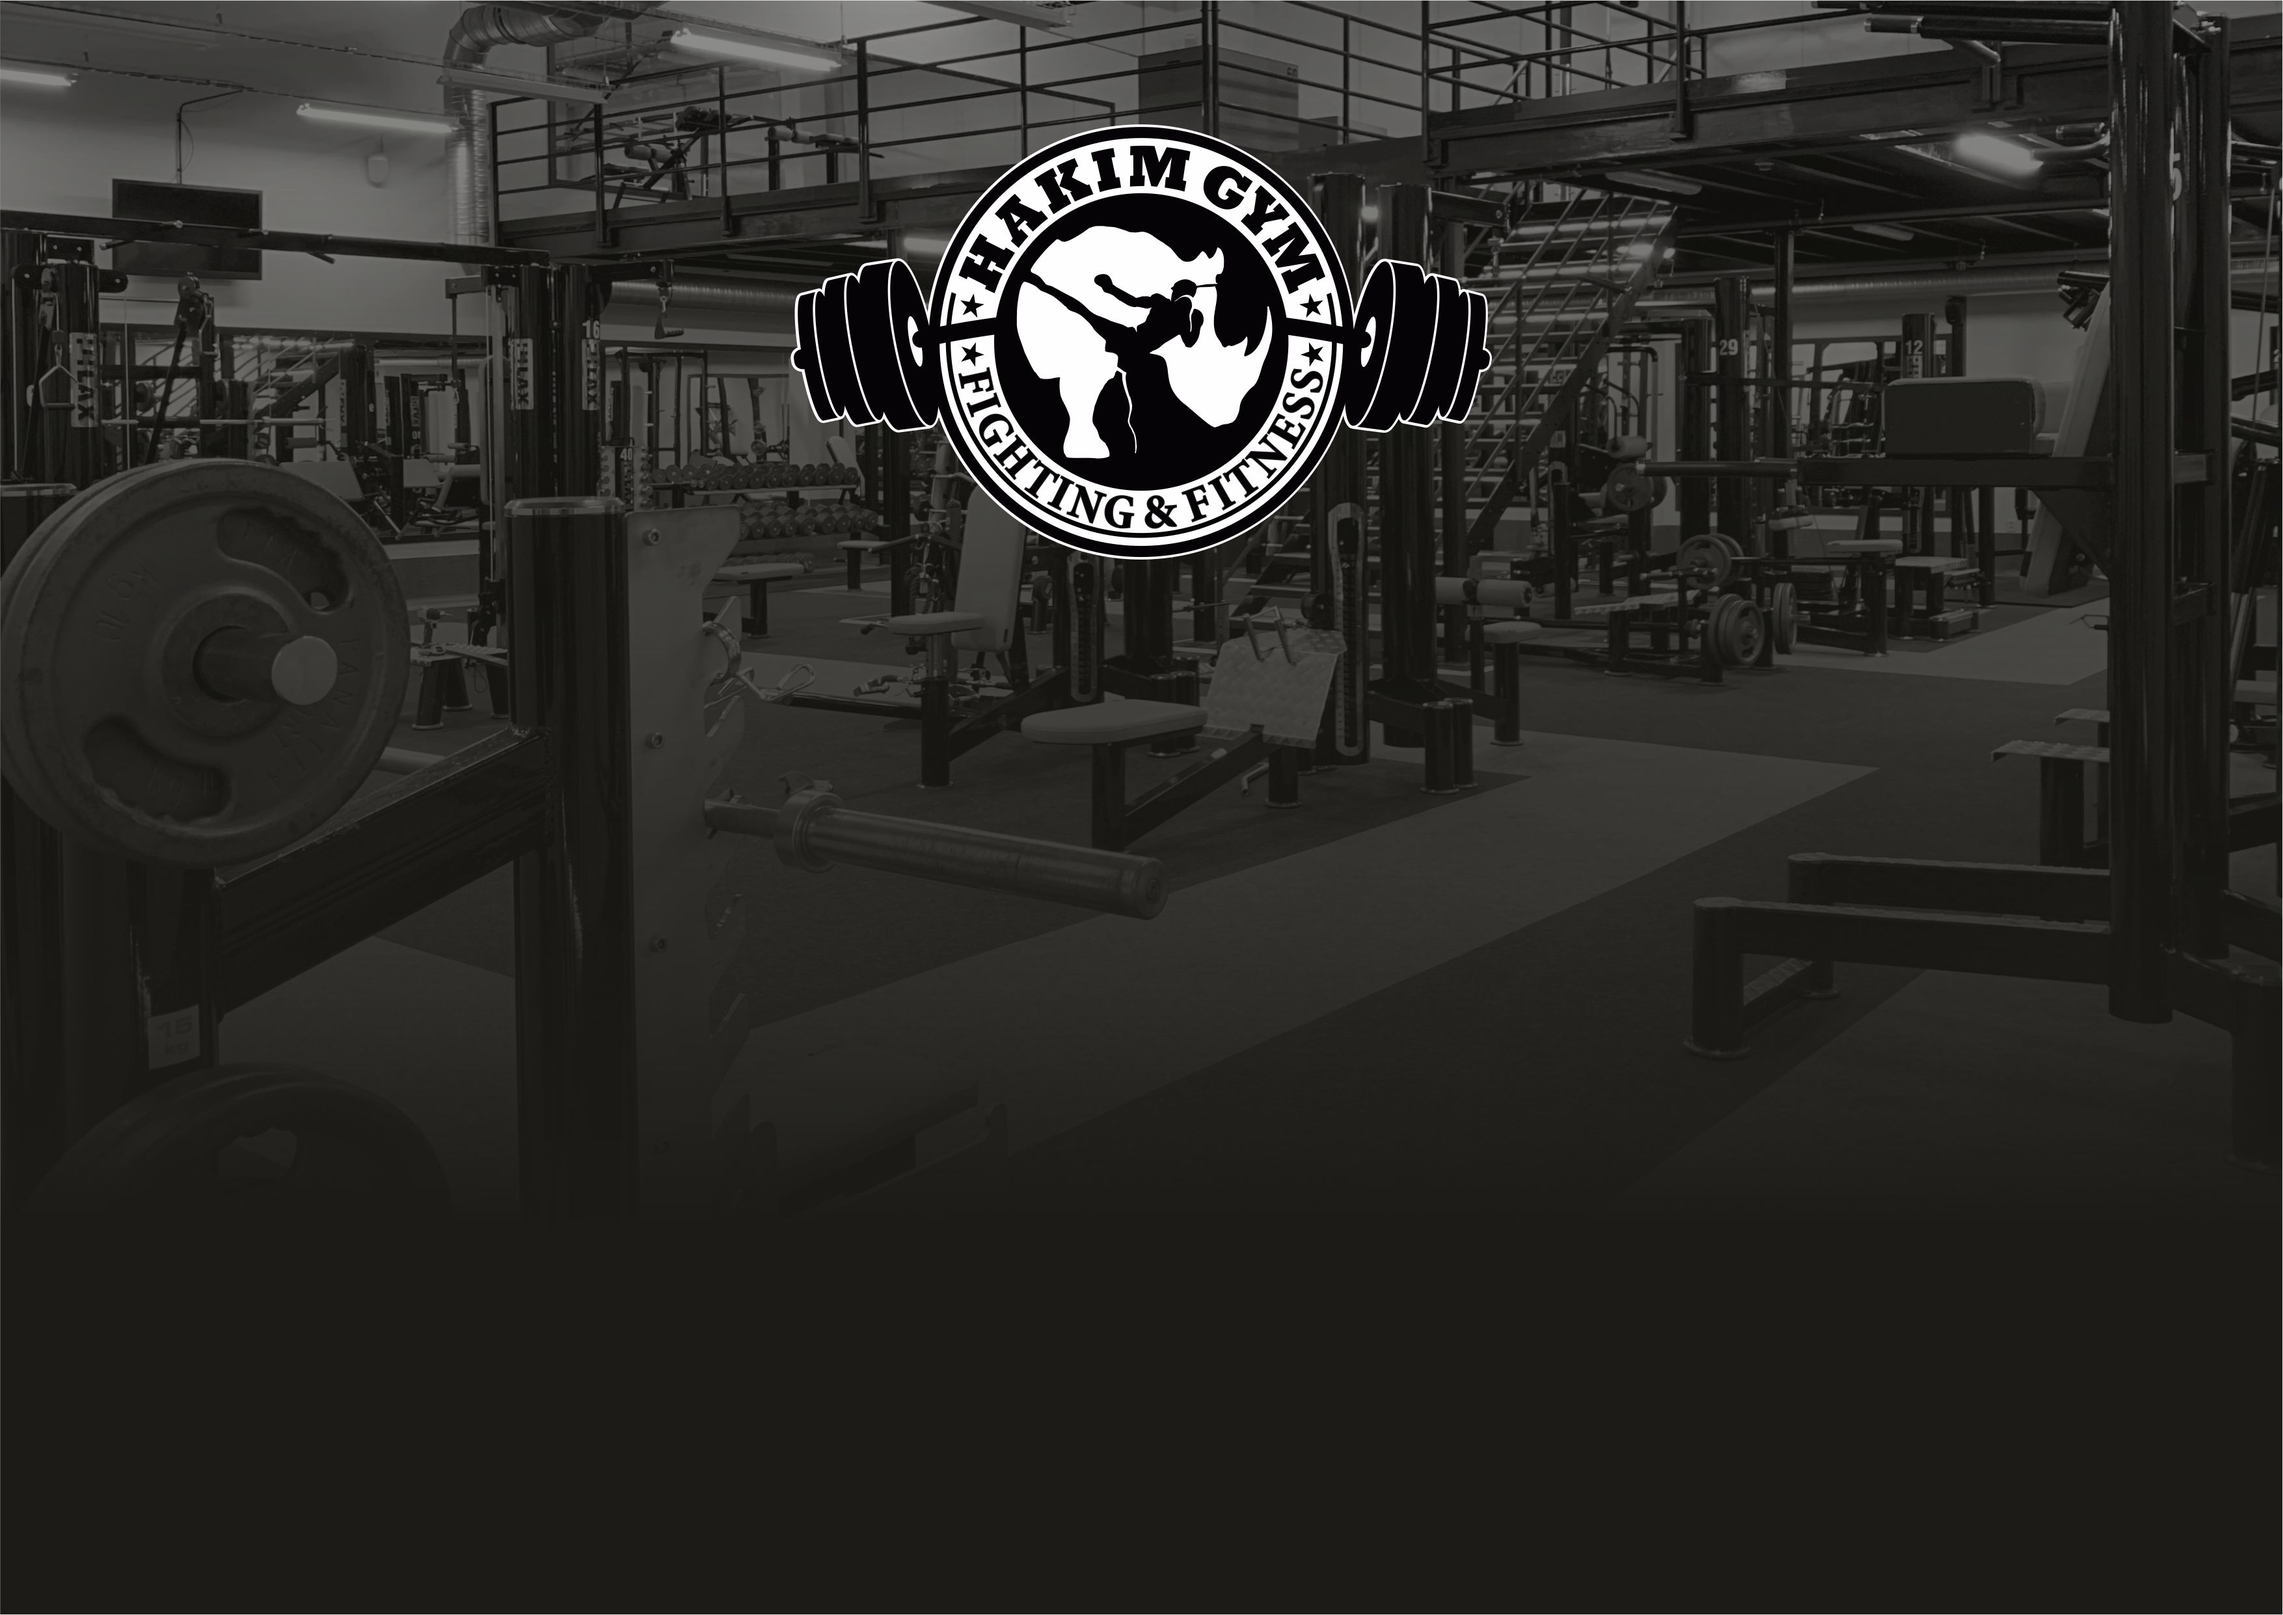
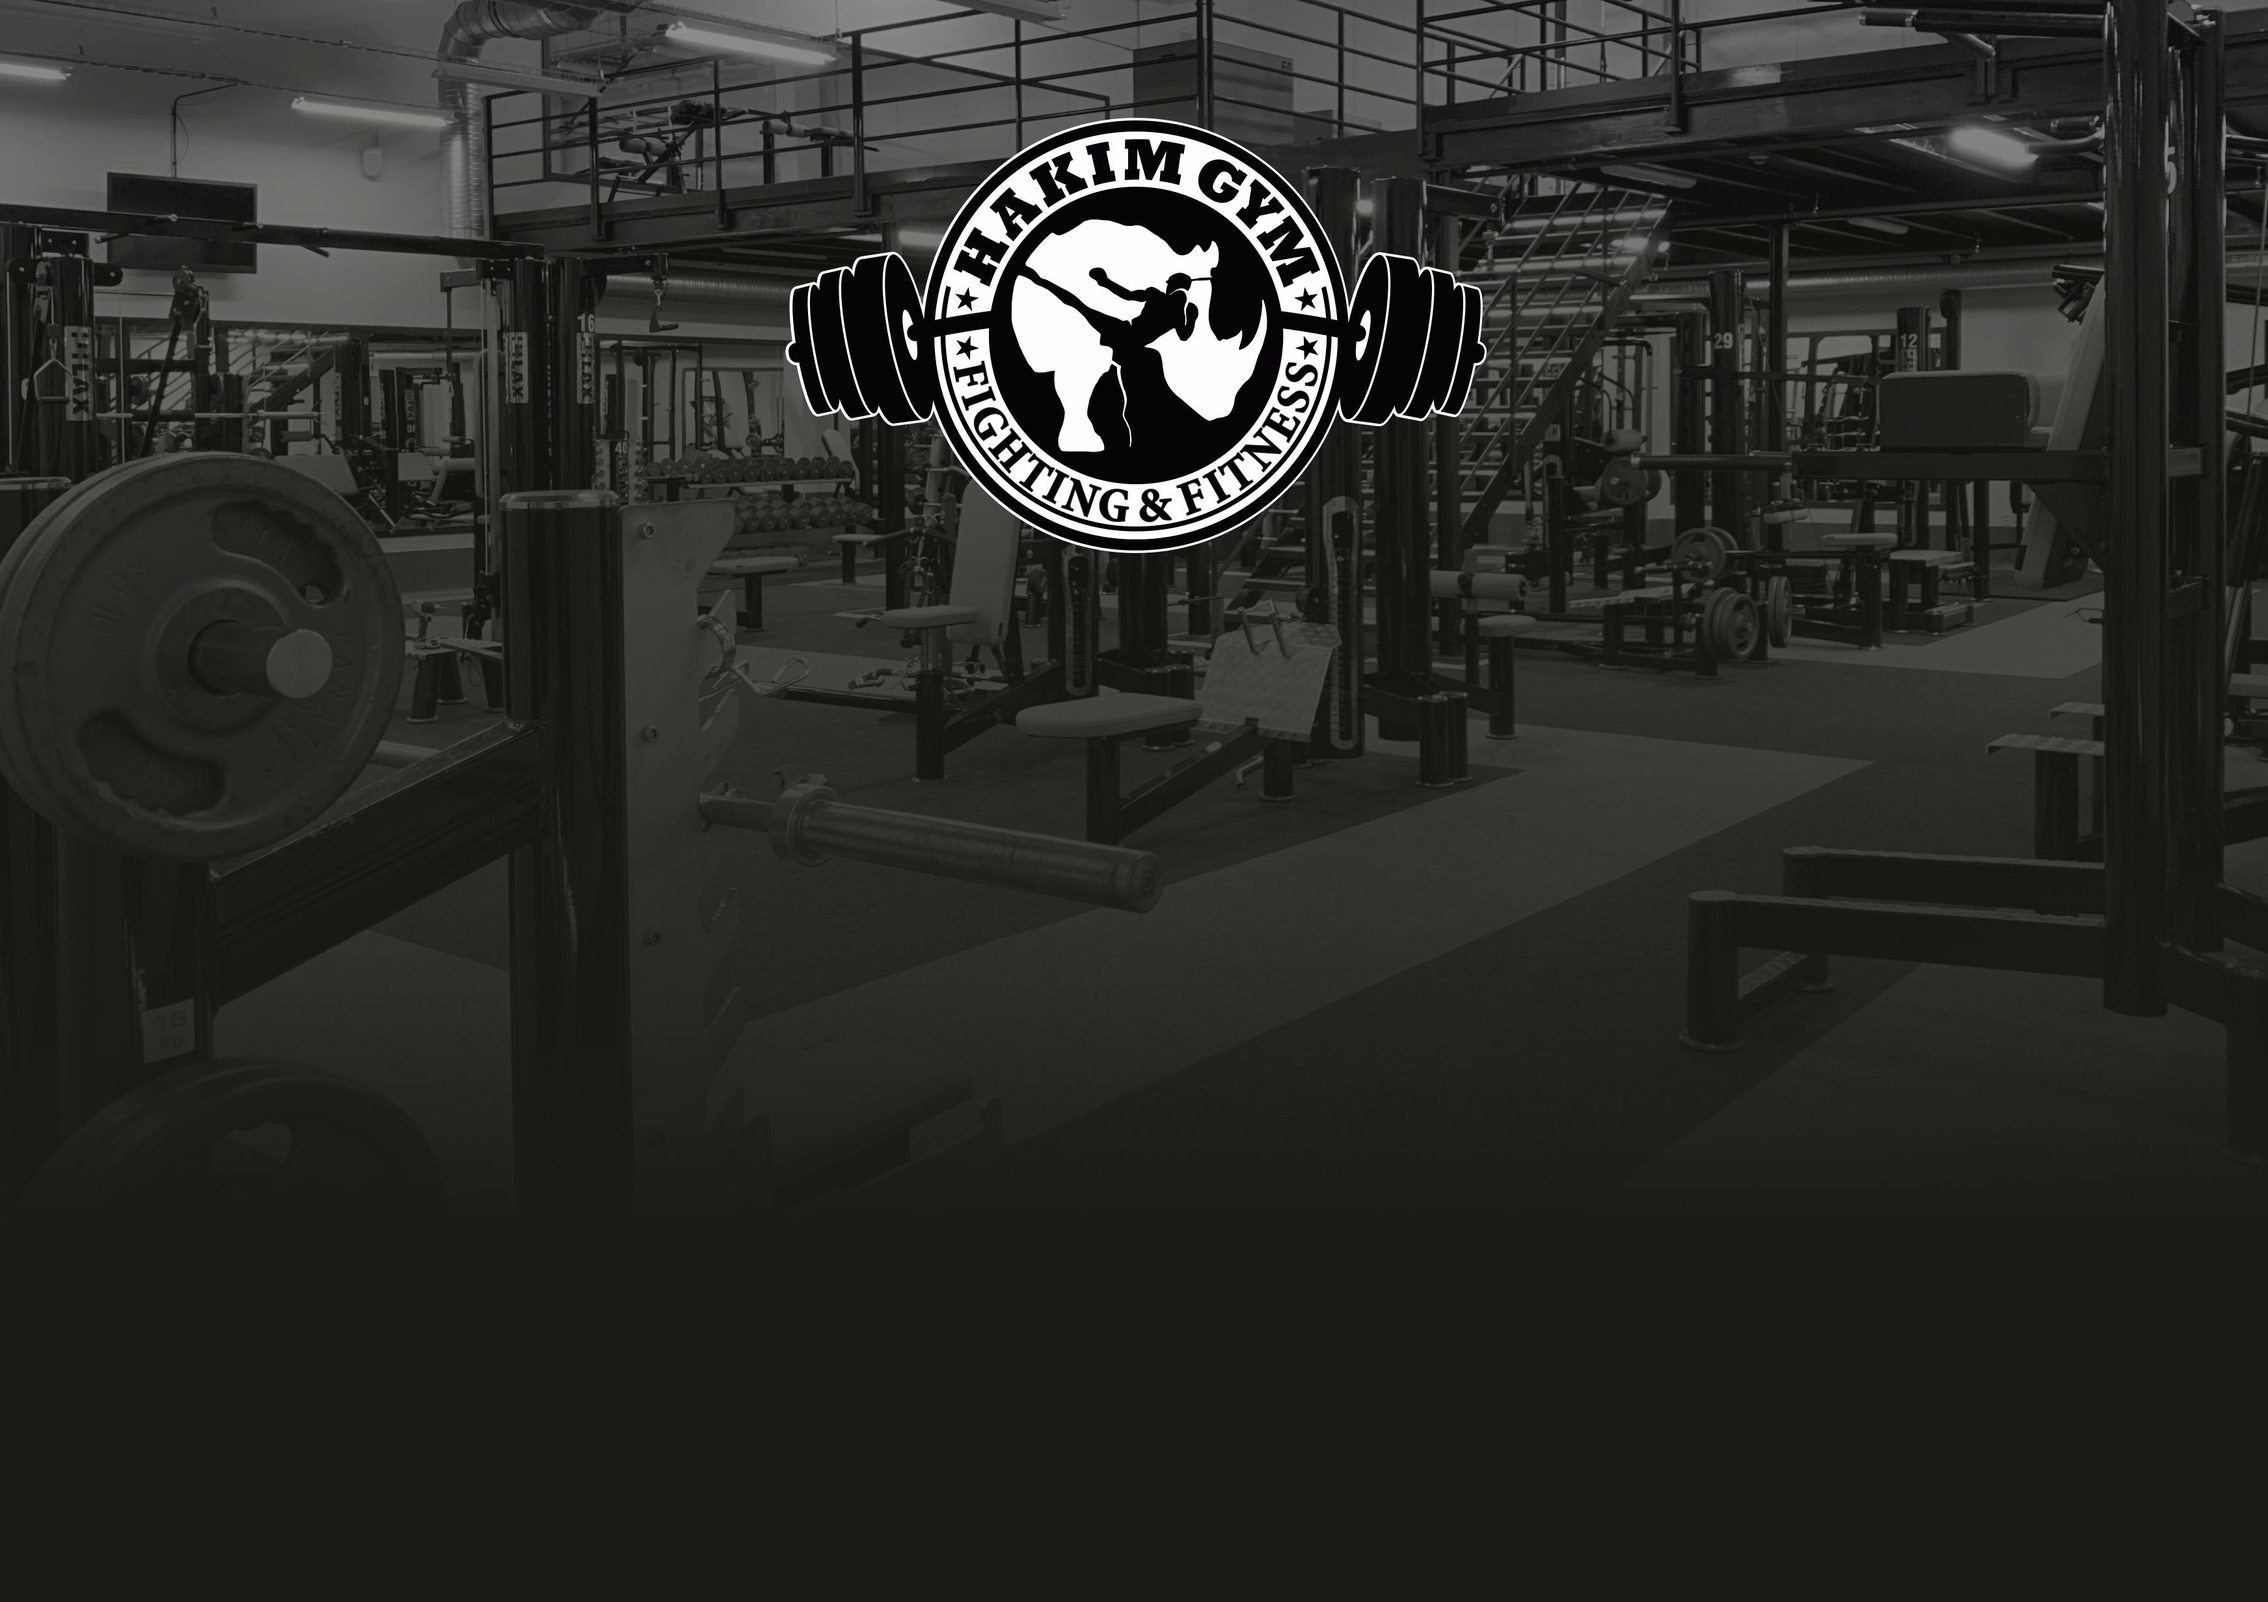
updated styles

diff --git a/index.html b/index.html
@@ -32,7 +32,7 @@
             <div class="accordion-content">
                 <div class="accordion">
                     <div class="accordion-header"
-                         style="    background-image: linear-gradient(to right, #000, #333, #000);">První trénink
+                         style="background-image: linear-gradient(to right, #000, #333, #000);">První trénink
                     </div>
                     <div class="accordion-content">
                         <div class="accordion-content-wrapper">
@@ -60,7 +60,7 @@
                 </div>
                 <div class="accordion">
                     <div class="accordion-header"
-                         style="    background-image: linear-gradient(to right, #000, #333, #000);">Rozpis tréninků
+                         style="background-image: linear-gradient(to right, #000, #333, #000);">Rozpis tréninků
                     </div>
                     <div class="accordion-content">
                         <div class="accordion-content-wrapper">
@@ -70,7 +70,7 @@
                 </div>
                 <div class="accordion">
                     <div class="accordion-header"
-                         style="    background-image: linear-gradient(to right, #000, #333, #000);">Ceník
+                         style="background-image: linear-gradient(to right, #000, #333, #000);">Ceník
                     </div>
                     <div class="accordion-content">
                         <div class="accordion-content-wrapper">
@@ -80,7 +80,7 @@
                 </div>
                 <div class="accordion">
                     <div class="accordion-header"
-                         style="    background-image: linear-gradient(to right, #000, #333, #000);">Galerie
+                         style="background-image: linear-gradient(to right, #000, #333, #000);">Galerie
                     </div>
                     <div class="accordion-content">
                         <div class="accordion-content-wrapper">
@@ -96,7 +96,7 @@
                 </div>
                 <div class="accordion">
                     <div class="accordion-header"
-                         style="    background-image: linear-gradient(to right, #000, #333, #000);">Sponzoři
+                         style="background-image: linear-gradient(to right, #000, #333, #000);">Sponzoři
                     </div>
                     <div class="accordion-content">
                         <div class="accordion-content-wrapper">
@@ -106,7 +106,7 @@
                 </div>
                 <div class="accordion">
                     <div class="accordion-header"
-                         style="    background-image: linear-gradient(to right, #000, #333, #000);">Videa
+                         style="background-image: linear-gradient(to right, #000, #333, #000);">Videa
                     </div>
                     <div class="accordion-content">
                         <div class="accordion-content-wrapper">
@@ -151,7 +151,7 @@
             <div class="accordion-content">
                 <div class="accordion">
                     <div class="accordion-header"
-                         style="    background-image: linear-gradient(to right, #000, #333, #000);">
+                         style="background-image: linear-gradient(to right, #000, #333, #000);">
                         Ceník
                     </div>
                     <div class="accordion-content">
@@ -162,7 +162,7 @@
                 </div>
                 <div class="accordion">
                     <div class="accordion-header"
-                         style="    background-image: linear-gradient(to right, #000, #333, #000);">Trenéři
+                         style="background-image: linear-gradient(to right, #000, #333, #000);">Trenéři
                     </div>
                     <div class="accordion-content">
                         <div class="accordion-content-wrapper">
@@ -180,7 +180,7 @@
                 </div>
                 <div class="accordion">
                     <div class="accordion-header"
-                         style="    background-image: linear-gradient(to right, #000, #333, #000);">Rezervace
+                         style="background-image: linear-gradient(to right, #000, #333, #000);">Rezervace
                     </div>
                     <div class="accordion-content">
                         <div class="accordion-content-wrapper">
@@ -190,7 +190,7 @@
                 </div>
                 <div class="accordion">
                     <div class="accordion-header"
-                         style="    background-image: linear-gradient(to right, #000, #333, #000);">Skupinové lekce
+                         style="background-image: linear-gradient(to right, #000, #333, #000);">Skupinové lekce
                     </div>
                     <div class="accordion-content">
                         <div class="accordion-content-wrapper">
@@ -201,7 +201,7 @@
                 </div>
                 <div class="accordion">
                     <div class="accordion-header"
-                         style="    background-image: linear-gradient(to right, #000, #333, #000);">Akce a oznámení
+                         style="background-image: linear-gradient(to right, #000, #333, #000);">Akce a oznámení
                     </div>
                     <div class="accordion-content">
                         <div class="accordion-content-wrapper">
@@ -211,7 +211,7 @@
                 </div>
                 <div class="accordion">
                     <div class="accordion-header"
-                         style="    background-image: linear-gradient(to right, #000, #333, #000);">Galerie
+                         style="background-image: linear-gradient(to right, #000, #333, #000);">Galerie
                     </div>
                     <div class="accordion-content">
                         <div class="accordion-content-wrapper">
@@ -234,7 +234,7 @@
                 </div>
                 <div class="accordion">
                     <div class="accordion-header"
-                         style="    background-image: linear-gradient(to right, #000, #333, #000);">Volné pracovní
+                         style="background-image: linear-gradient(to right, #000, #333, #000);">Volné pracovní
                         pozice
                     </div>
                     <div class="accordion-content">
@@ -252,7 +252,7 @@
             <div class="accordion-content">
                 <div class="accordion">
                     <div class="accordion-header"
-                         style="    background-image: linear-gradient(to right, #000, #333, #000);">Masáže a
+                         style="background-image: linear-gradient(to right, #000, #333, #000);">Masáže a
                         fyzioterapie
                     </div>
                     <div class="accordion-content">
@@ -264,7 +264,7 @@
                 </div>
                 <div class="accordion">
                     <div class="accordion-header"
-                         style="    background-image: linear-gradient(to right, #000, #333, #000);">Solárium
+                         style="background-image: linear-gradient(to right, #000, #333, #000);">Solárium
                     </div>
                     <div class="accordion-content">
                         <div class="accordion-content-wrapper">
@@ -275,7 +275,7 @@
                 </div>
                 <div class="accordion">
                     <div class="accordion-header"
-                         style="    background-image: linear-gradient(to right, #000, #333, #000);">Infrasauny
+                         style="background-image: linear-gradient(to right, #000, #333, #000);">Pánské infrasauny
                     </div>
                     <div class="accordion-content">
                         <div class="accordion-content-wrapper">
@@ -285,7 +285,7 @@
                 </div>
                 <div class="accordion">
                     <div class="accordion-header"
-                         style="    background-image: linear-gradient(to right, #000, #333, #000);">Barber shop
+                         style="background-image: linear-gradient(to right, #000, #333, #000);">Barber shop
                     </div>
                     <div class="accordion-content">
                         <div class="accordion-content-wrapper">
@@ -408,7 +408,7 @@
             <p><b>Nově otevřeno!</b></p>
             <br>
             <p><b style="font-size: large">Platby hotově i kartou!</b></p>
-            <p><b style="font-size: large">Přijímáme Multisport karty</b></p>
+            <p><b style="font-size: large">Přijímáme Multisport karty!</b></p>
         </div>
         <div class="map-media">
             <div class="map">

diff --git a/styles.css b/styles.css
@@ -99,7 +99,7 @@ main {
 }
 
 main .main-banner {
-    background-image: radial-gradient(ellipse closest-side at center, rgba(0,0,0,0.0) 0%, rgba(0,0,0,0.1) 70%, rgba(0,0,0,0.8) 100%), url("assets/bg_s.jpg");
+    background-image: radial-gradient(ellipse closest-side at center, rgba(0, 0, 0, 0.0) 0%, rgba(0, 0, 0, 0.1) 70%, rgba(0, 0, 0, 0.8) 100%), url("assets/bg_s.jpg");
     background-repeat: no-repeat;
     background-size: cover;
     background-position: top;
@@ -146,6 +146,9 @@ main .main-banner {
     background-color: black;
     text-align: center;
     letter-spacing: 2px;
+    display: flex;
+    flex-direction: column;
+    align-items: center;
 }
 
 .content-description {
@@ -177,7 +180,7 @@ main .main-banner {
 }
 
 .gallery-pic, .embed-video {
-    width: 60%;
+    width: min(60rem);
     height: auto;
     margin: 4rem 0;
     border-radius: 15px;
@@ -390,6 +393,26 @@ textarea {
     cursor: pointer;
 }
 
+@media only screen and (max-width: 1000px) {
+
+    .header p {
+        display: none;
+    }
+
+    .footer-contact {
+        display: block;
+    }
+
+    #mma-masters-logo-wrapper {
+        width: 60%;
+        padding-top: 6rem;
+    }
+
+    .gallery-pic, .embed-video {
+        width: 60%;
+    }
+}
+
 @media only screen and (max-width: 700px) {
     .accordion-content-wrapper {
         padding: 5% 7%;
@@ -399,7 +422,7 @@ textarea {
     }
 
     #main-logo-wrapper {
-        max-height: 60%;
+        max-height: 40%;
     }
 
     .embed-video {
@@ -408,14 +431,6 @@ textarea {
 
     .main-banner, main {
         height: max-content;
-    }
-
-    .header p {
-        display: none;
-    }
-
-    .footer-contact {
-        display: block;
     }
 
     .footer-content {
